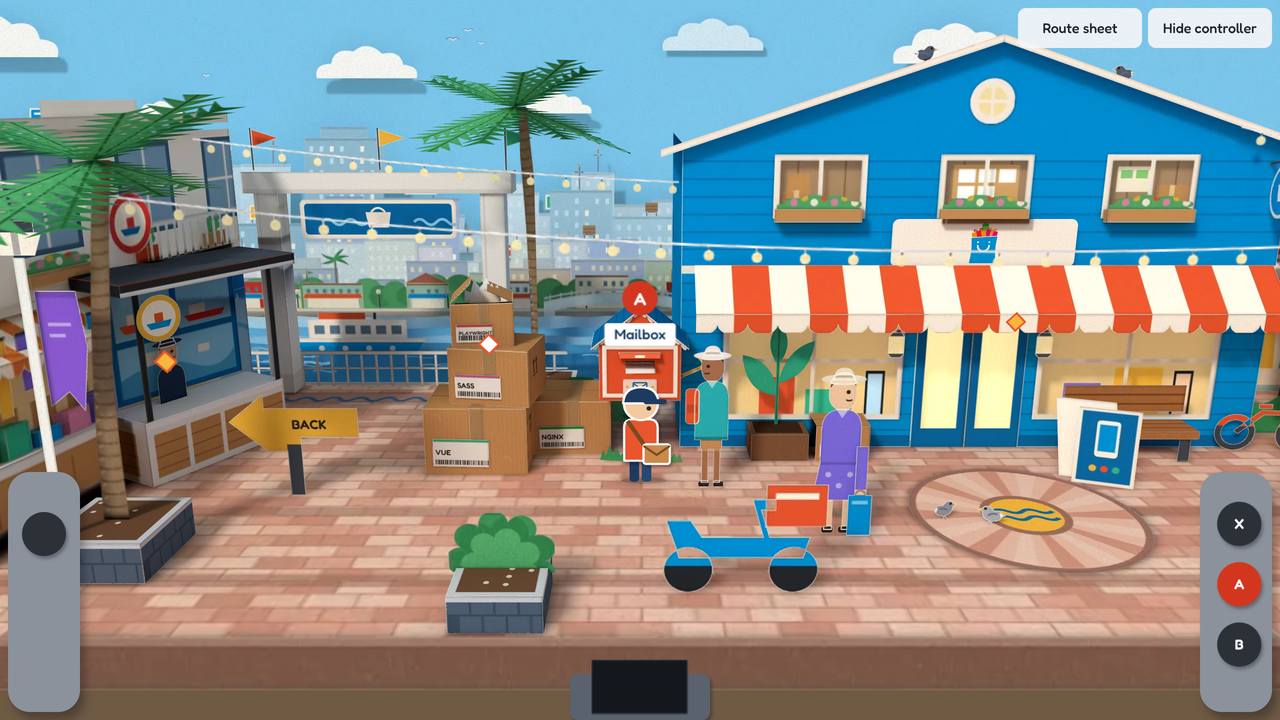
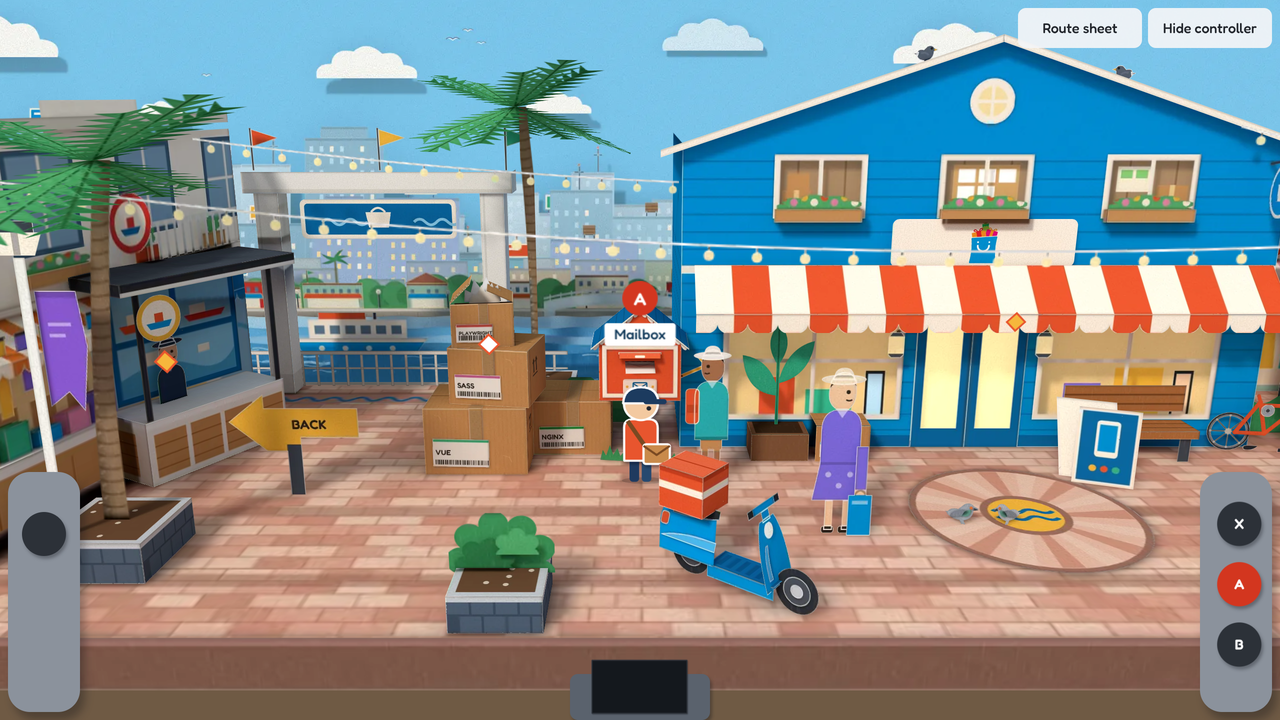
papercraft: final 192-sample bake of the folded street objects
Journey test passes all 13 checks and unit tests pass; the street draws 209 of
210 quads and walks at 18.3fps on the software-GPU landscape run. Screenshots
refreshed, with a close-up sheet of the folded objects.

Claude-Session: https://claude.ai/code/session_01YPNotQphYVfjgC9Vgu6onV

diff --git a/game/docs/ART_BIBLE.md b/game/docs/ART_BIBLE.md
@@ -148,11 +148,11 @@ Measured on the worst case: software GPU, 4x CPU throttle, DPR 2.625, landscape.
 - Mark sheets with no cut-outs as opaque so the browser skips blending them.
 - Anything far away and flat belongs in the CSS backdrop. Open views that must keep parallax are built as layers and flattened onto one or two cards: the river view's 14 layers ship as four quads.
 - Texture area costs as much as quad count: every quad is rasterised at its own texel size times the device pixel ratio. A scene sets `density` for panels that set none (the street uses 2.1), ghost faces pack at .35, and carved pieces are cut no finer than their wall.
-- Measured with `tests/perf.mjs` (software GPU, 4x CPU throttle, DPR 2.625) in a cloud container slower than the original machine: the old 112-quad street walked at 27.8fps there; the 200-quad promenade walks at about 17–21fps depending on texture density. With the river view rebuilt as a layered shadow box (198 quads, 192 once the sailboat, yachts and front bench were removed), the same run measured 17.5fps against 16.6fps for the 200-quad version just before it. Re-measure on the reference machine before trusting the 60fps target.
+- Measured with `tests/perf.mjs` (software GPU, 4x CPU throttle, DPR 2.625) in a cloud container slower than the original machine: the old 112-quad street walked at 27.8fps there; the 200-quad promenade walks at about 17–21fps depending on texture density. With the river view rebuilt as a layered shadow box (198 quads; 192 once the sailboat, yachts and front bench were removed; 209 with the folded scooter, bicycle, pigeons and café chairs, which walked at 18.3fps), the same run measured 17.5fps against 16.6fps for the 200-quad version just before it. Re-measure on the reference machine before trusting the 60fps target.
 
 | Space | Quad limit, enforced by the journey test |
 |---|---|
-| Street (riverside promenade) | 210 (uses 192) |
+| Street (riverside promenade) | 210 (uses 209) |
 | First-floor outlet | 75 |
 | Second-floor store-room | 115 |
 
